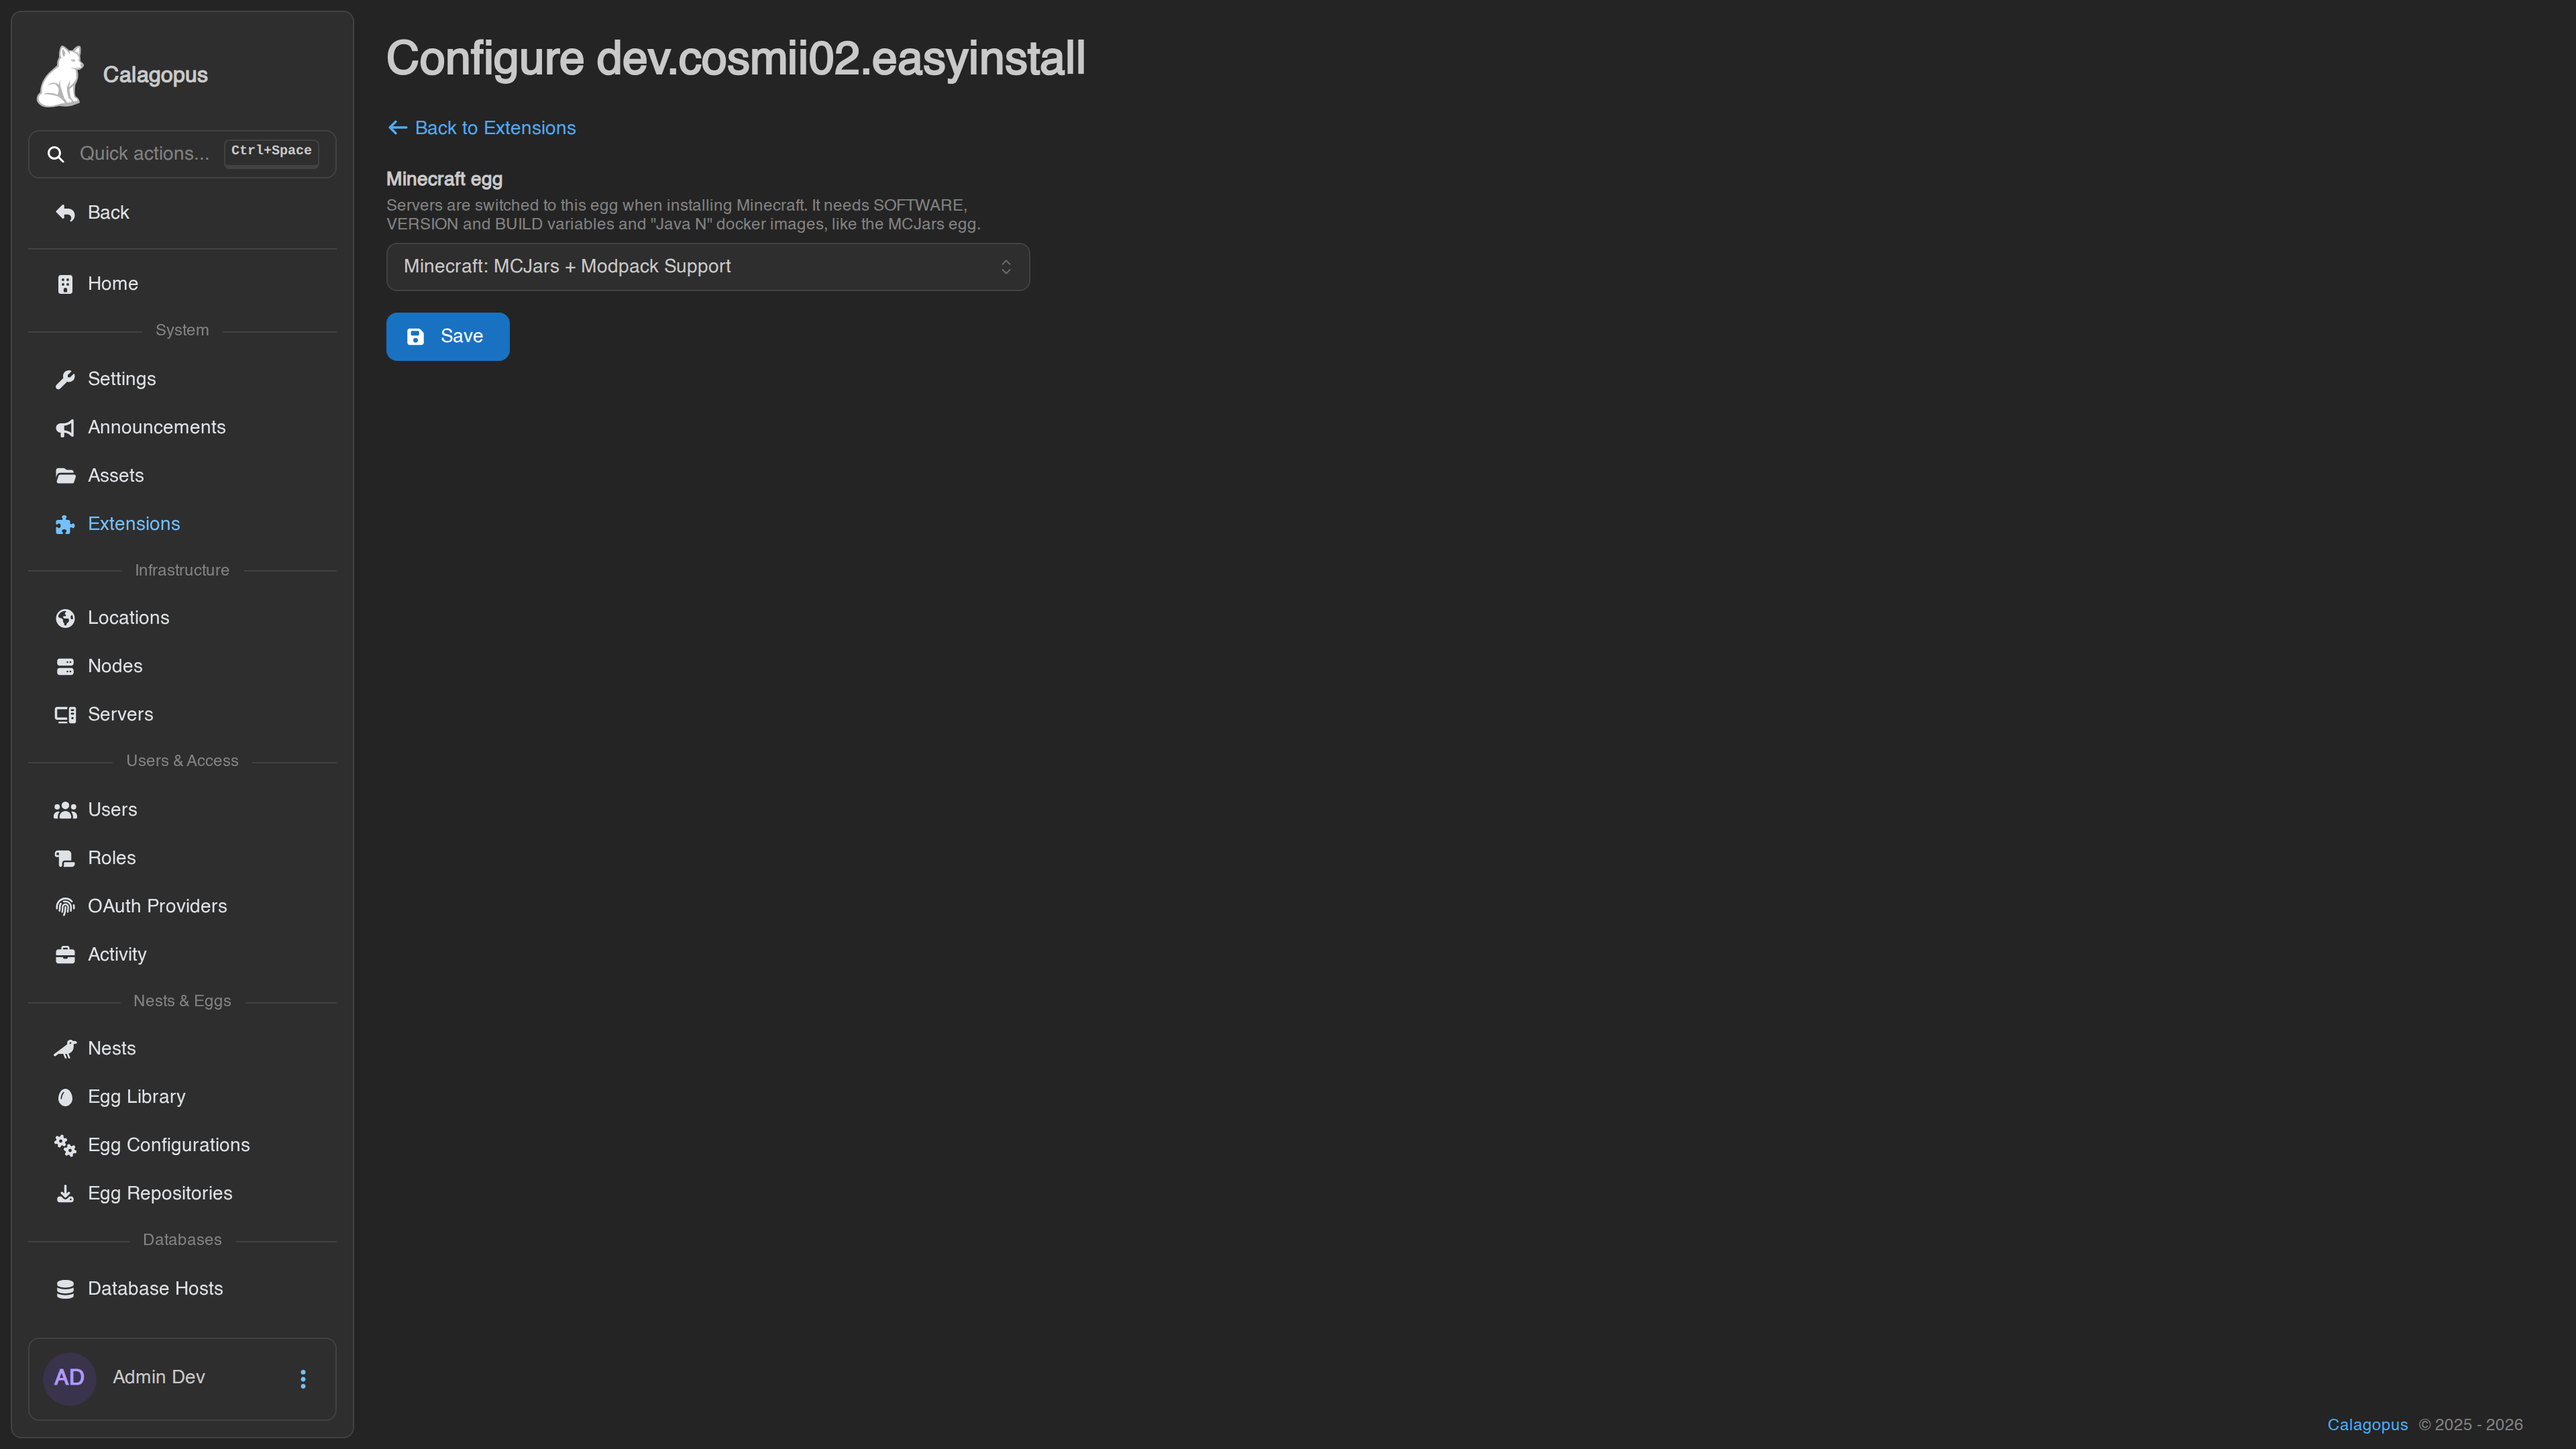
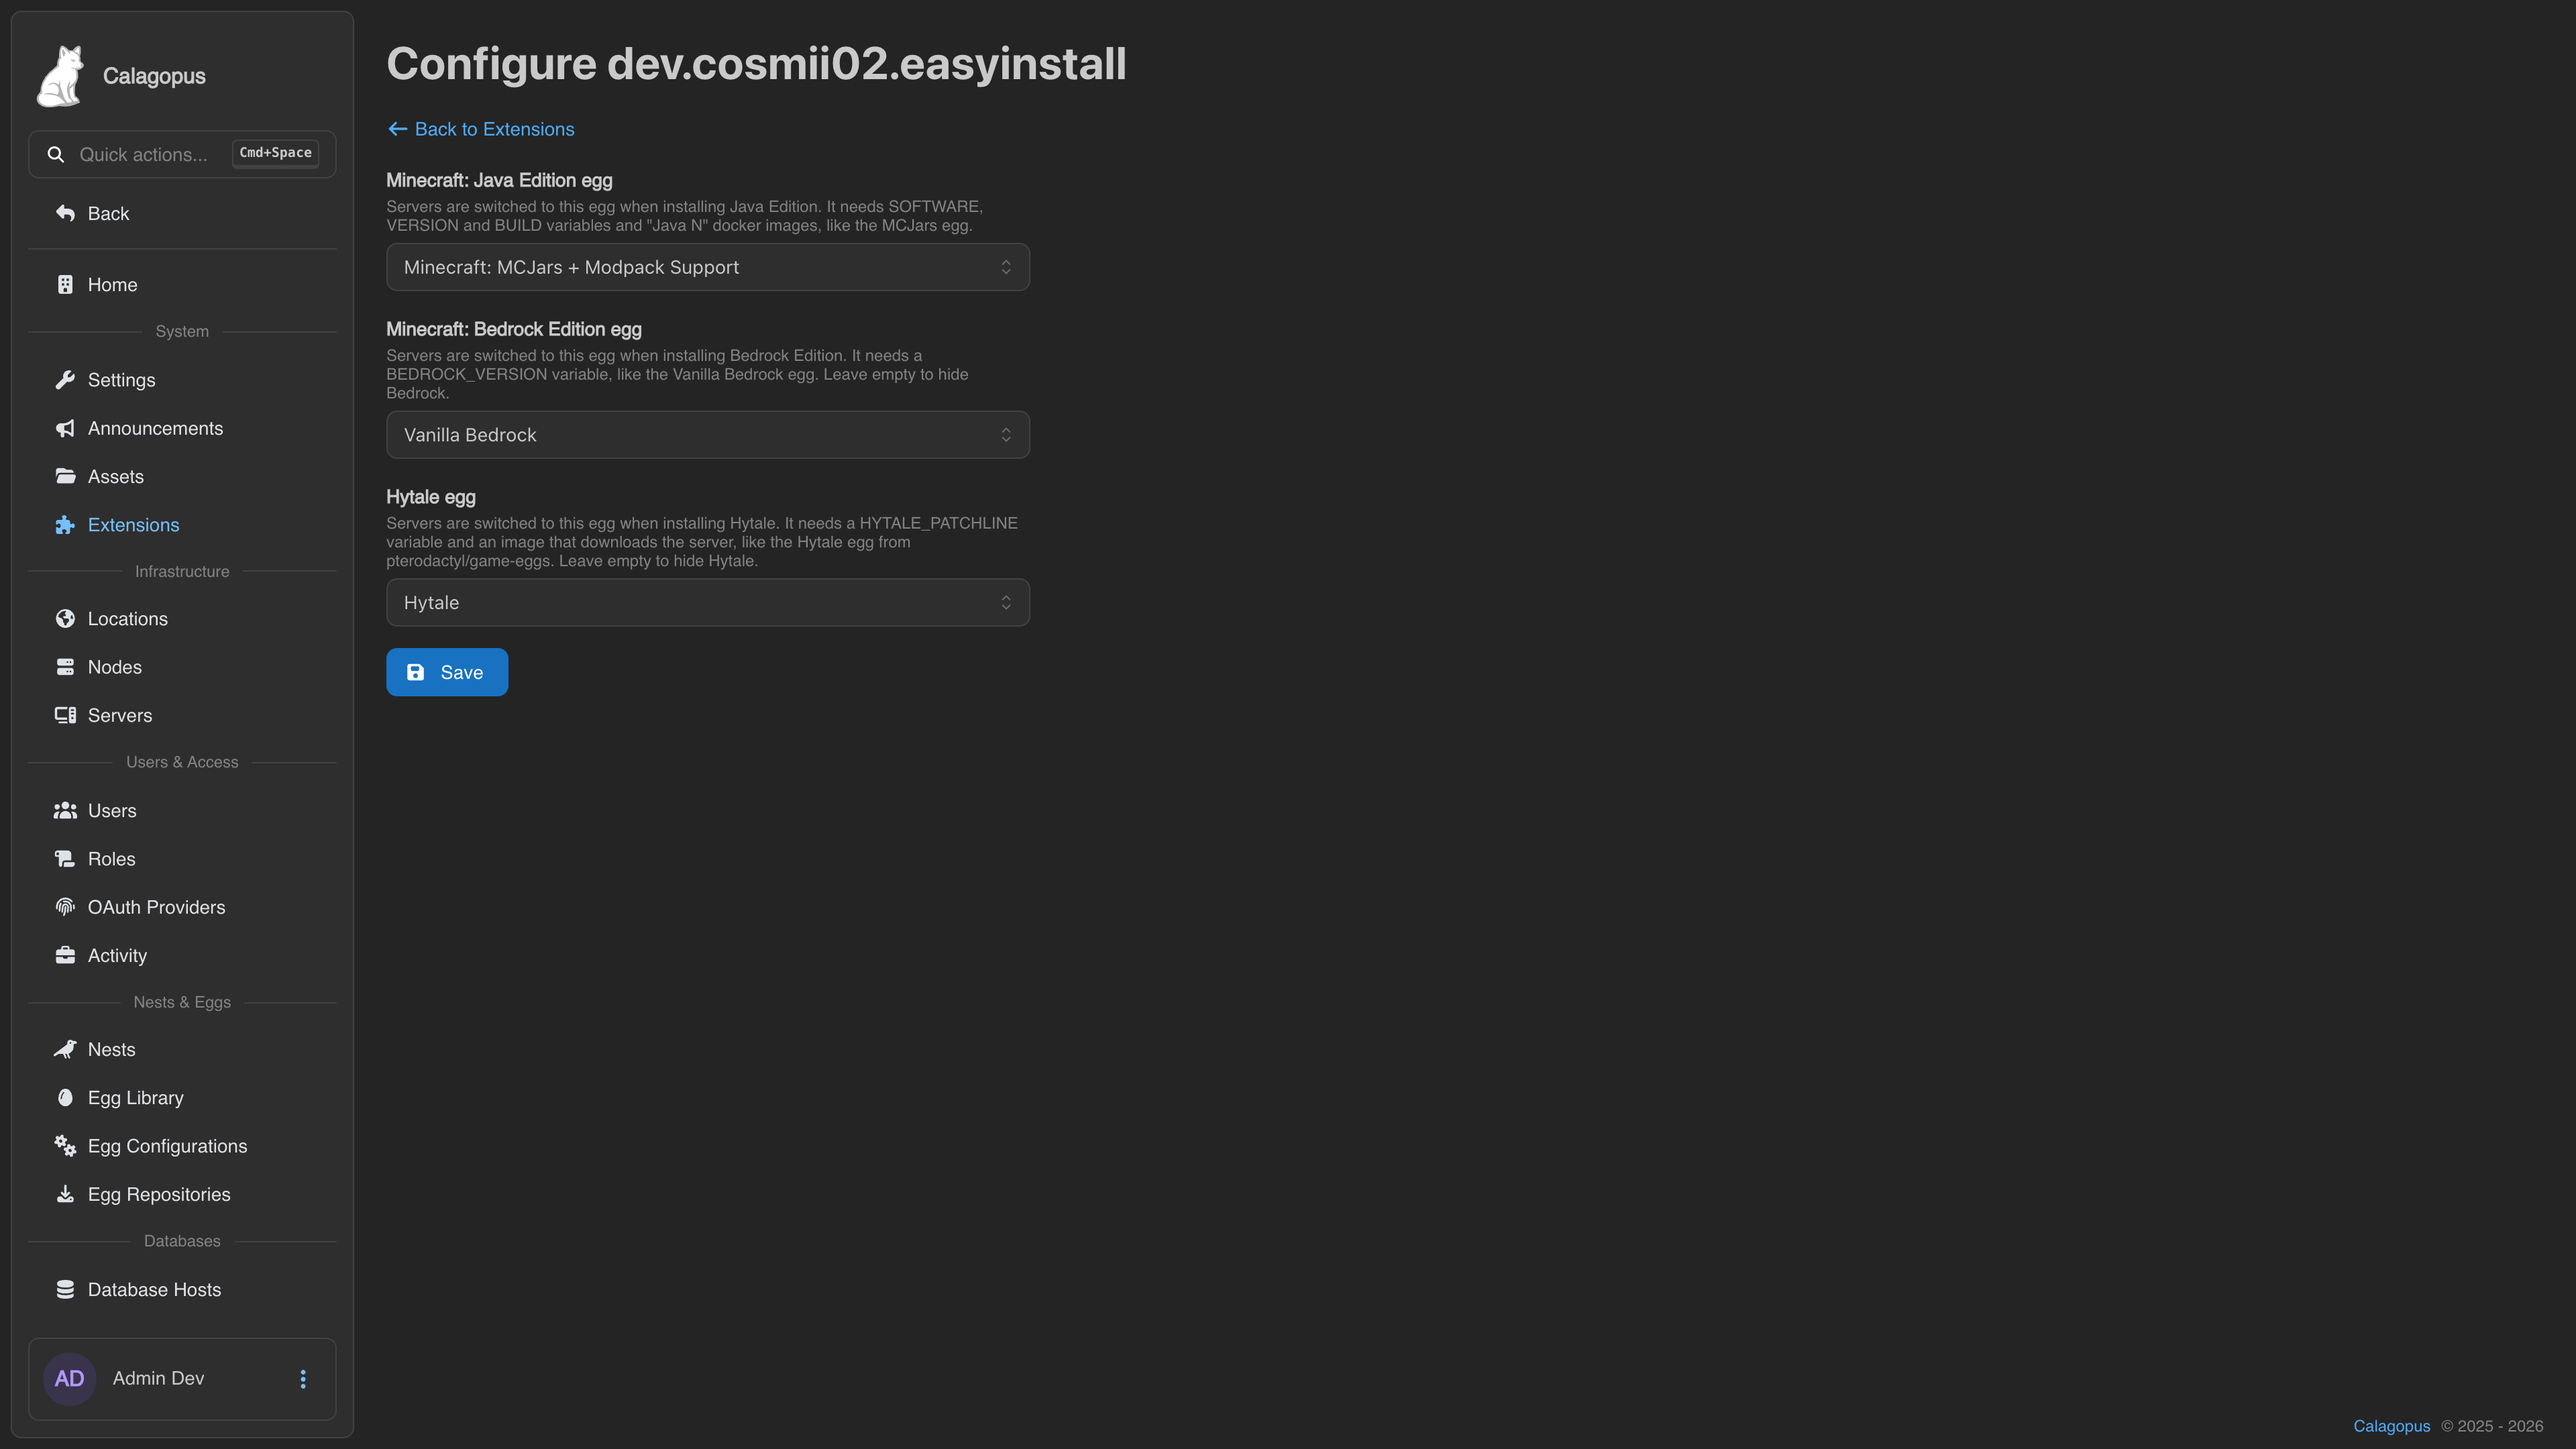
update screenshots

diff --git a/README.md b/README.md
@@ -8,7 +8,7 @@ Supported today:
 - **Minecraft: Bedrock Edition** (the official Bedrock Dedicated Server), with versions from Mojang and the [BDS-Versions](https://github.com/Bedrock-OSS/BDS-Versions) list.
 - **Hytale** (the official dedicated server), on the Release or Pre-release branch.
 
-![EasyInstall page: currently installed build with an update available, and the game / server type / mod loader / version picker](docs/screenshots/easyinstall.png)
+![EasyInstall page: an installed Bedrock server with an update available, and the game / server type / mod loader / version picker for Minecraft Java, Minecraft Bedrock and Hytale](docs/screenshots/easyinstall.png)
 
 ## Features
 
@@ -37,7 +37,7 @@ Each game is optional: only games with an egg configured are offered to users.
 2. In the panel, go to **Admin → Extensions** and upload it. The panel compiles it and restarts, usually within a minute or two.
 3. Open the extension's **Configure** page and pick the eggs for the games you want to offer.
 
-![Extension settings: picking the Minecraft egg](docs/screenshots/admin-settings.png)
+![Extension settings: picking the Java, Bedrock and Hytale eggs](docs/screenshots/admin-settings.png)
 
 To update, upload the new release's `.c7s.zip` the same way. Settings are kept.
 
